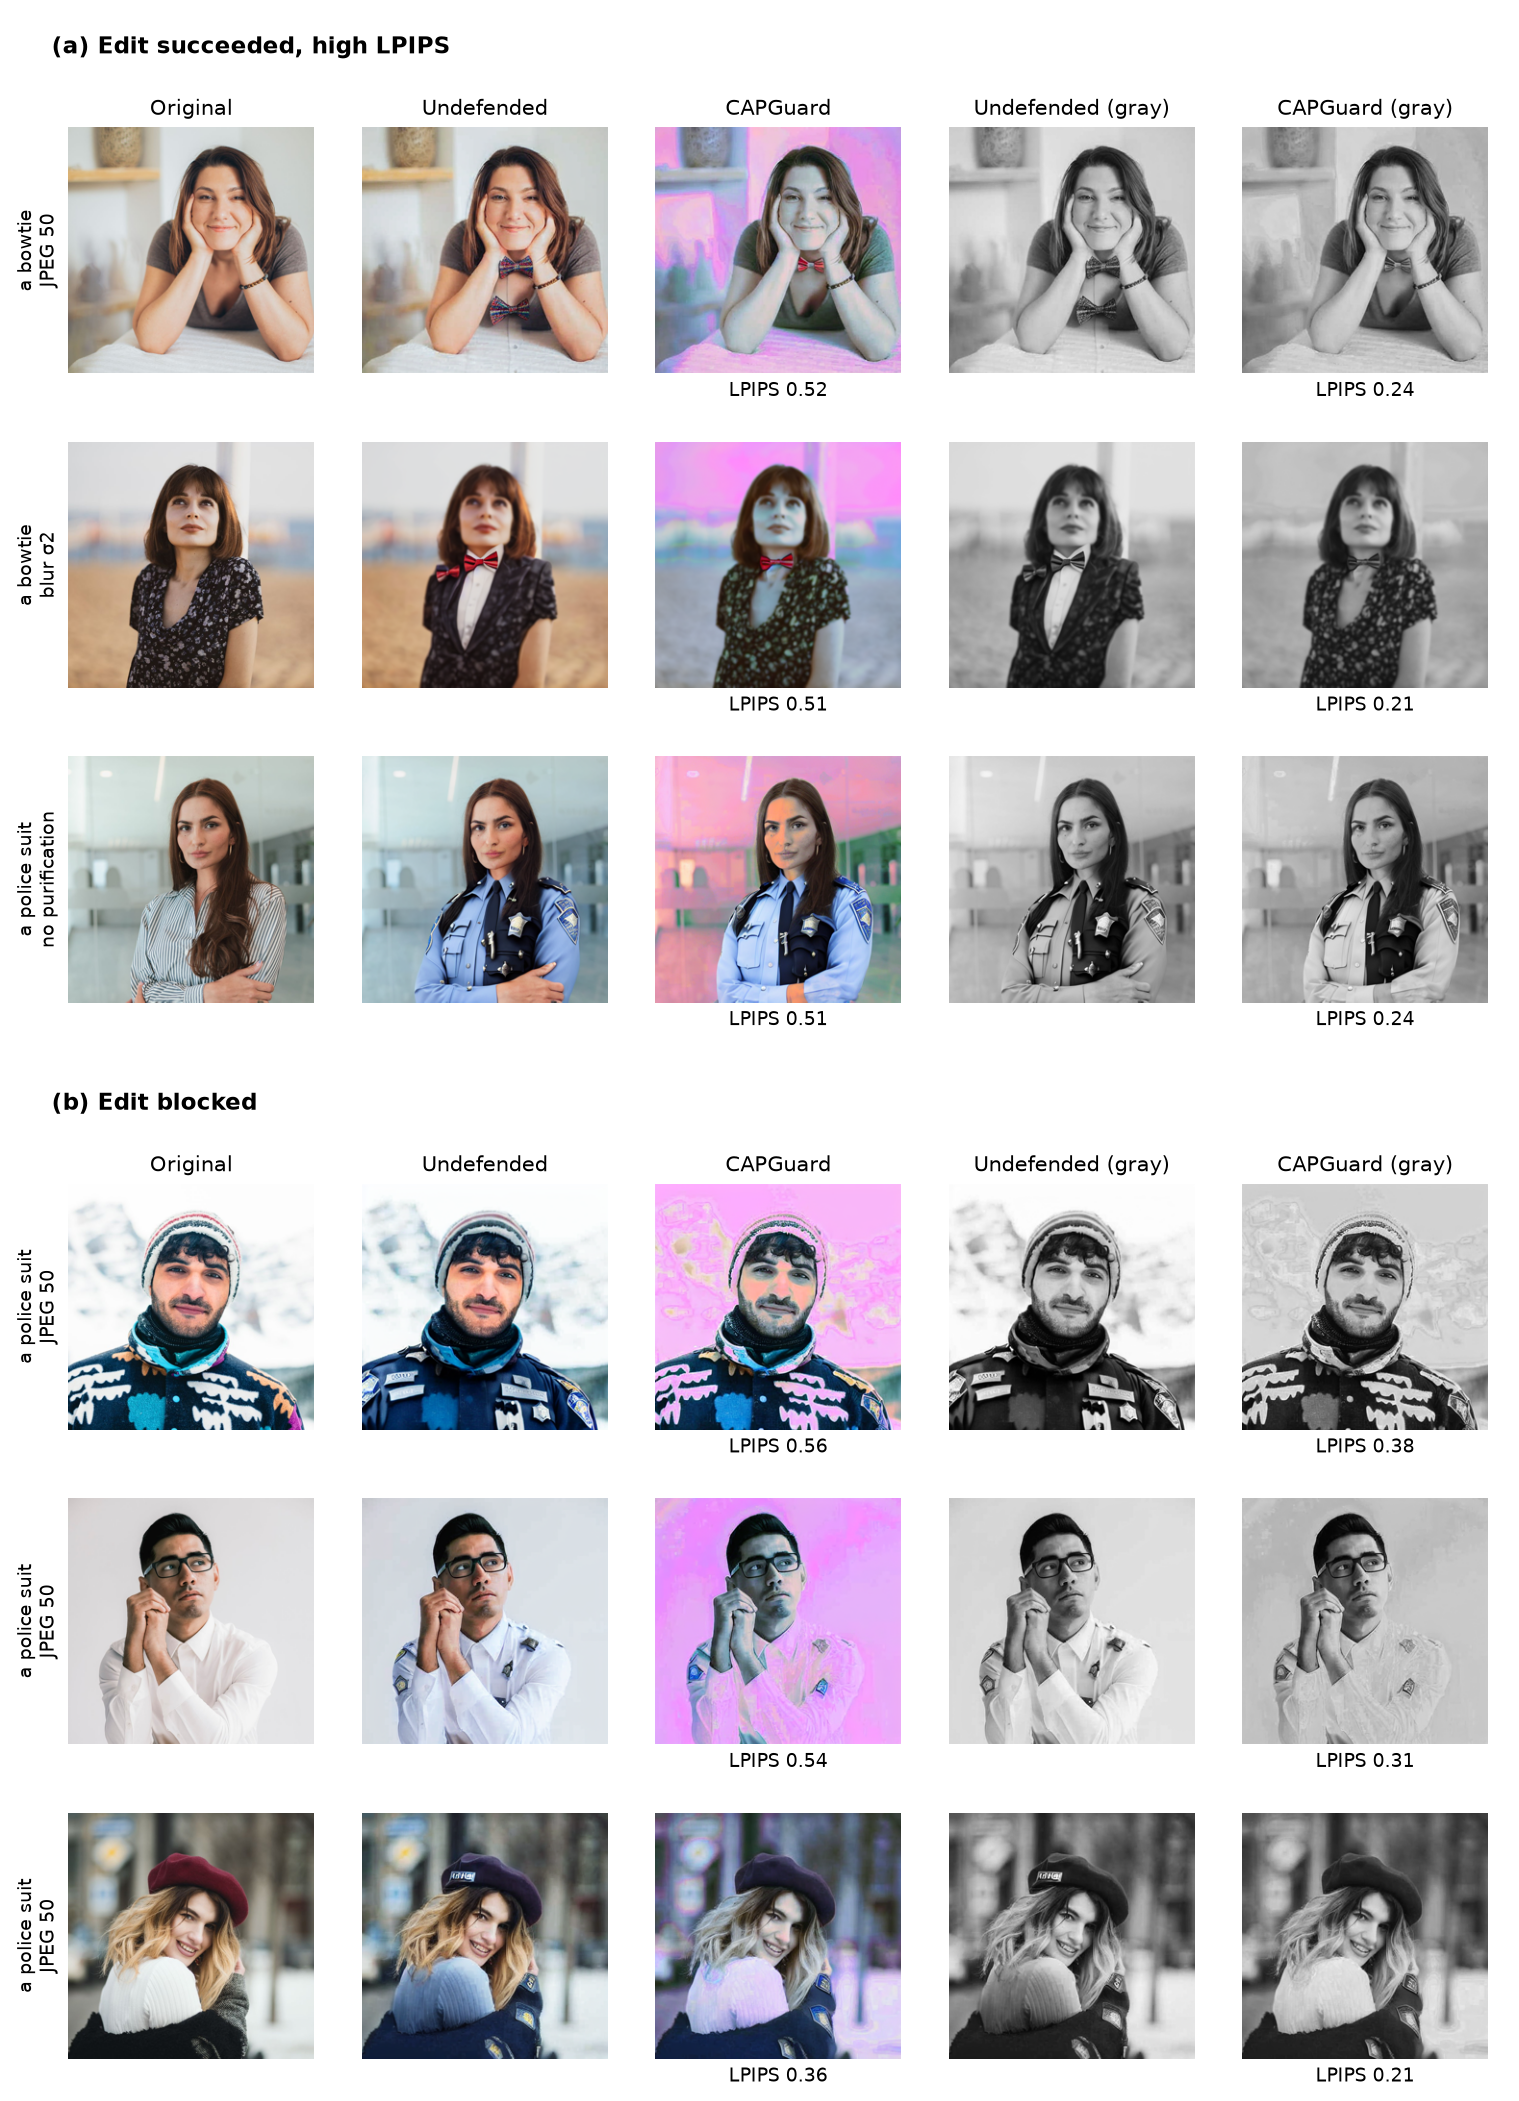
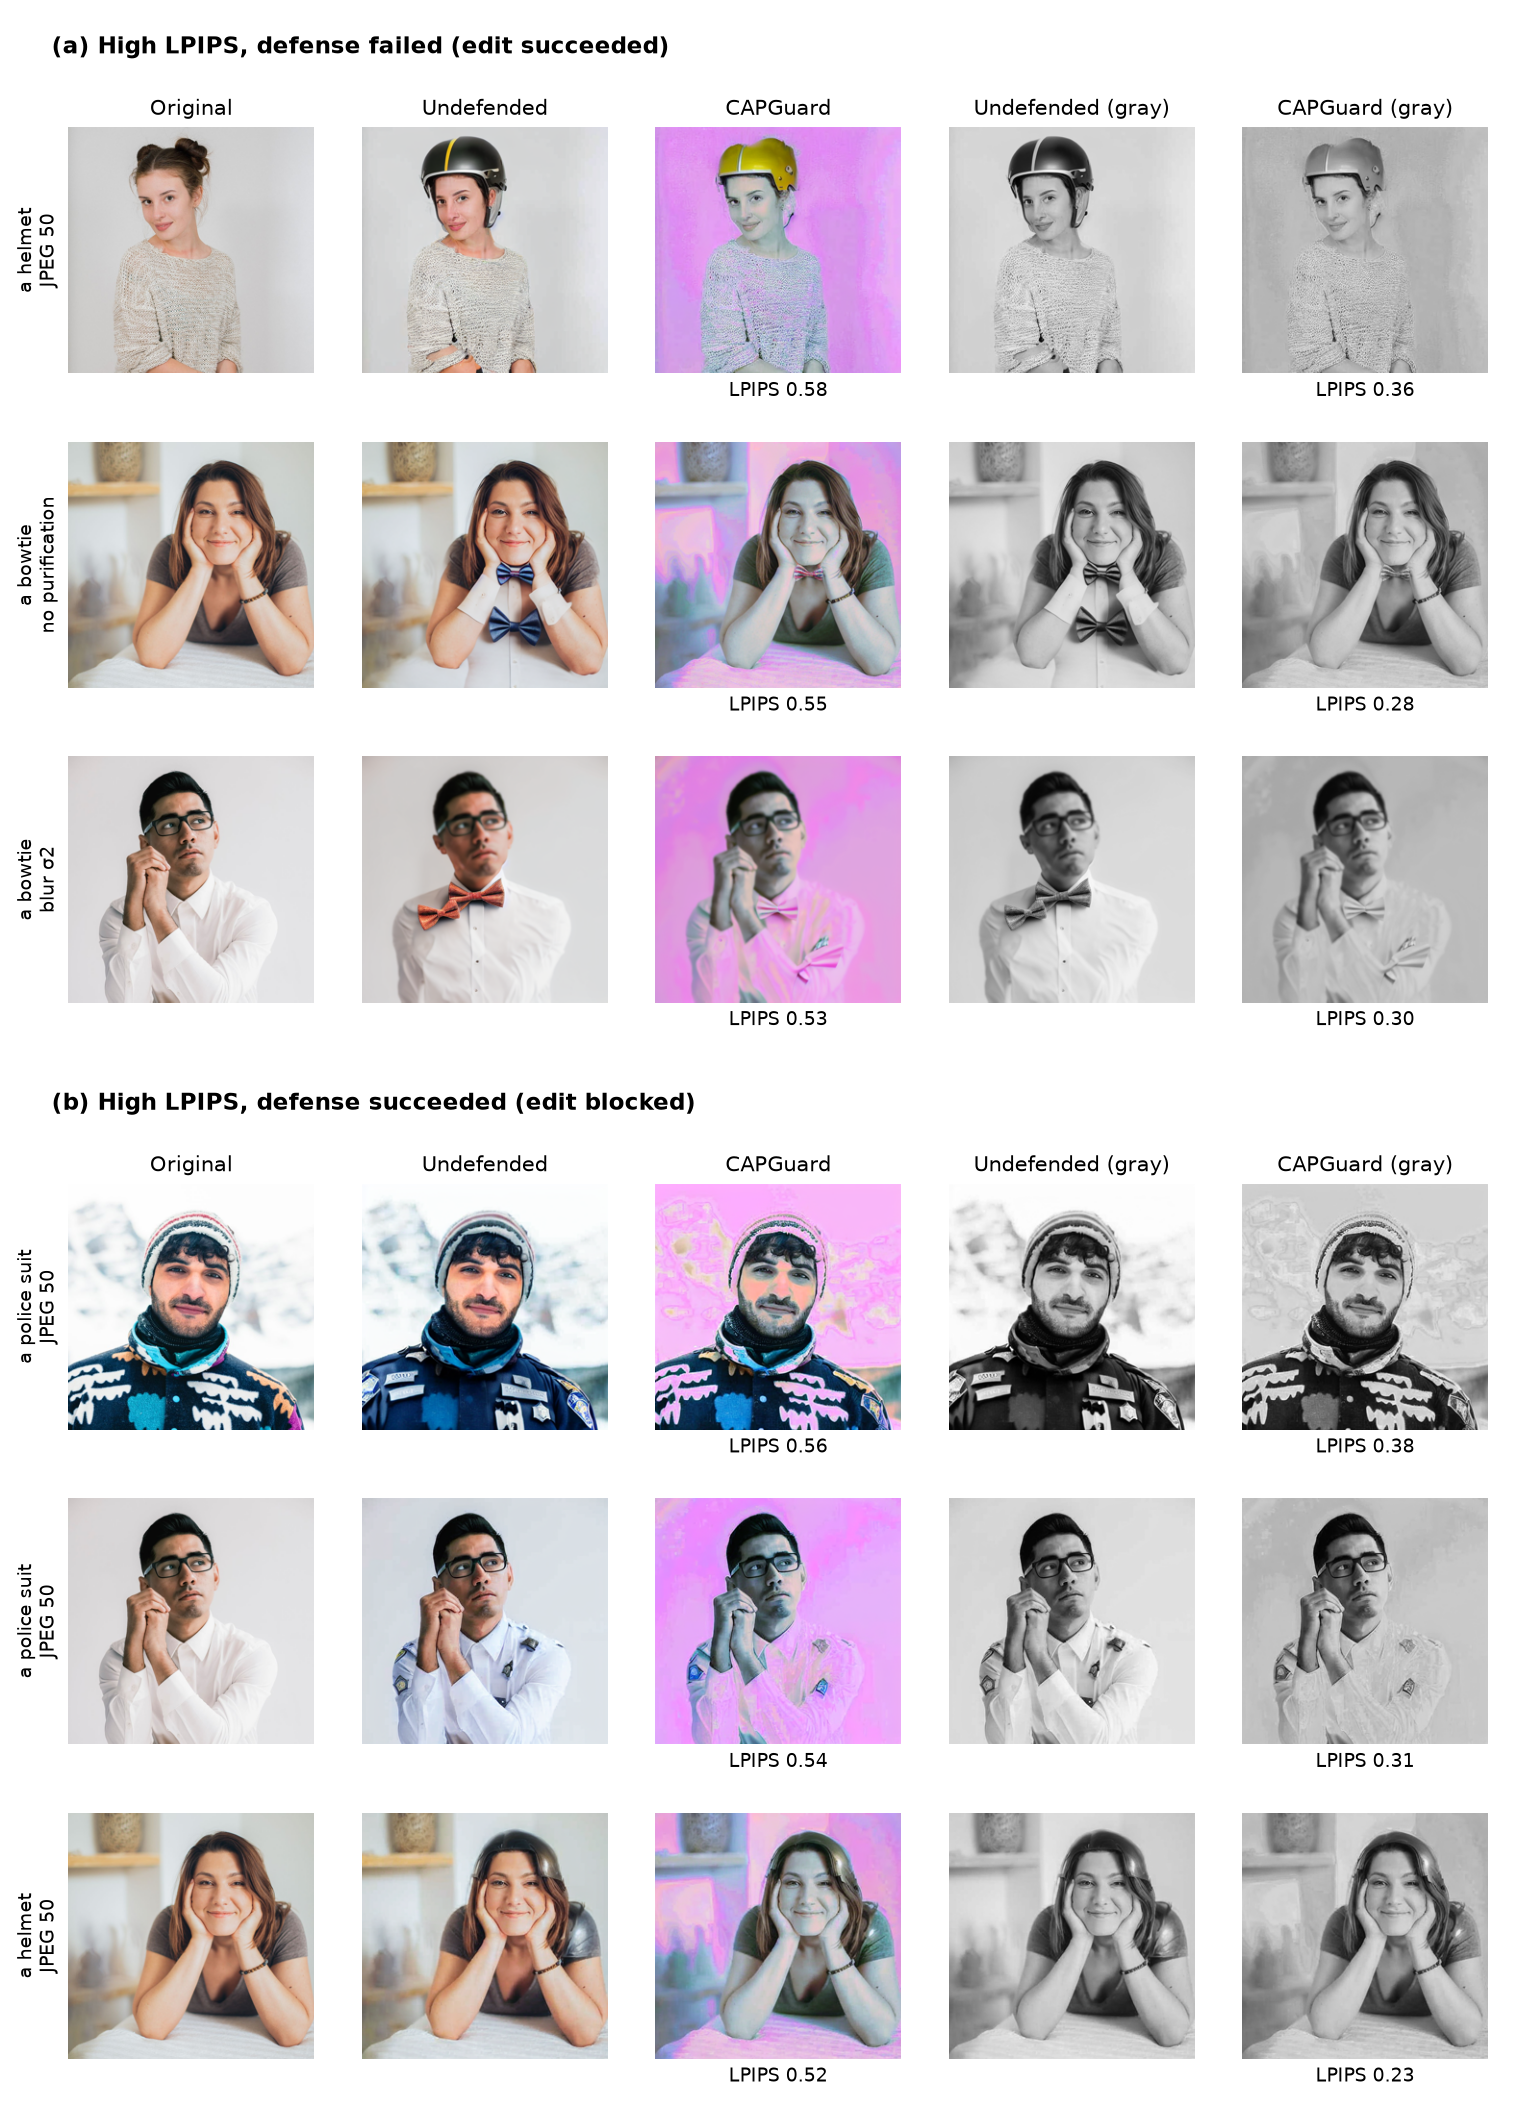
Pick both qualitative groups by high edit-result LPIPS
Claude-Session: https://claude.ai/code/session_01Pyoof95D2tCDHe4yhfsdaM

diff --git a/docs/isr_pilot/generate_isr_lpips_qualitative_figure.py b/docs/isr_pilot/generate_isr_lpips_qualitative_figure.py
@@ -56,8 +56,8 @@ def pick(cands, key):
     return out
 
 
-succ = pick([r for r in rows if r["audited"] and r["success"] and r["gray"] / r["rgb"] < 0.5], key=lambda r: -r["rgb"])
-blk = pick([r for r in rows if r["audited"] and r["accessory"] == "0" and r["degraded"] == "0" and r["gray"] / r["rgb"] >= 0.55], key=lambda r: -r["gray"])
+succ = pick([r for r in rows if r["audited"] and r["success"]], key=lambda r: -r["rgb"])
+blk = pick([r for r in rows if r["audited"] and r["accessory"] == "0" and r["degraded"] == "0"], key=lambda r: -r["rgb"])
 
 
 def load(rel, gray=False):
@@ -75,7 +75,7 @@ fig = plt.figure(figsize=(12.5, 2.75 * n + 1.2), facecolor="white")
 gs = fig.add_gridspec(len(ratios), 5, height_ratios=ratios, hspace=0.35, wspace=0.05)
 row_of = [1 + i for i in range(len(succ))] + [2 + len(succ) + i for i in range(len(blk))]
 axes = np.array([[fig.add_subplot(gs[row_of[i], c]) for c in range(5)] for i in range(n)])
-for hdr, text in [(0, "(a) Edit succeeded, high LPIPS"), (1 + len(succ), "(b) Edit blocked")]:
+for hdr, text in [(0, "(a) High LPIPS, defense failed (edit succeeded)"), (1 + len(succ), "(b) High LPIPS, defense succeeded (edit blocked)")]:
     ax = fig.add_subplot(gs[hdr, :])
     ax.axis("off")
     ax.text(0, 0.0, text, fontsize=11, weight="bold", ha="left", va="bottom", transform=ax.transAxes)
